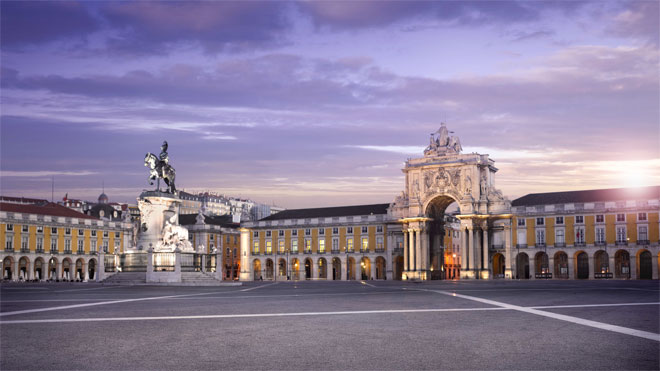
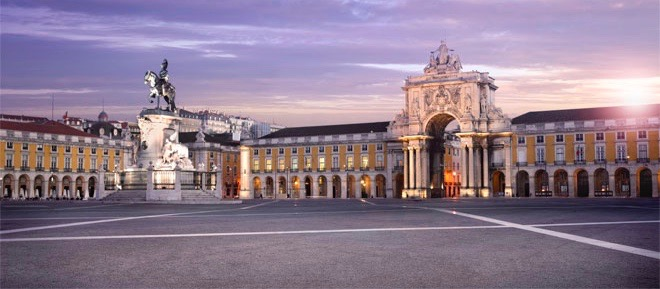
final changes to carousel and form

diff --git a/src/frontend/index.html b/src/frontend/index.html
@@ -72,6 +72,26 @@
 
     });
 
+    $(function () {
+
+        $('#getInTouchForm').on('submit', function (e) {
+
+          e.preventDefault();
+
+          $.ajax({
+            type: 'post',
+            url: '/message',
+            data: $('#getInTouchForm').serialize(),
+            success: function () {
+              alert("I'll get in touch with you soon =)");
+              $('#getInTouchForm')[0].reset();
+            }
+          });
+
+        });
+
+      });
+
   </script>
 
 </head>
@@ -81,54 +101,7 @@
       <p>Software Developer</p>
     </div>
 
-    <div id="myCarousel" class="carousel slide" data-ride="carousel">
-      <!-- Indicators -->
-      <ol class="carousel-indicators">
-        <li data-target="#myCarousel" data-slide-to="0" class="active"></li>
-        <li data-target="#myCarousel" data-slide-to="1"></li>
-        <li data-target="#myCarousel" data-slide-to="2"></li>
-      </ol>
-
-      <!-- wrapper for slides -->
-      <div class="carousel-inner" role="listbox">
-        <div class="item active carousel">
-          <img class="carouselImg" src="lisboa.jpg" alt="Lisboa" height="300">
-          <div class="carousel-caption">
-            <h3>Lisboa</h3>
-            <p>123</p>
-          </div>
-        </div>
-        <div class="item carouselImg">
-          <img class="carouselImg" src="porto.png" alt="Porto" height="300">
-          <div class="carousel-caption">
-            <h3>Porto</h3>
-            <p>456</p>
-          </div>
-        </div>
-        <div class="item carouselImg">
-          <img class="carouselImg" src="leiria.jpg" alt="Leiria" height="300">
-          <div class="carousel-caption">
-            <h3>Leiria</h3>
-            <p>789</p>
-          </div>
-        </div>
-      </div>
-
-        <!-- Left and right controls -->
-      <a class="left carousel-control" href="#myCarousel" role="button" data-slide="prev">
-        <span class="glyphicon glyphicon-chevron-left" aria-hidden="true"></span>
-        <span class="sr-only">Previous</span>
-      </a>
-      <a class="right carousel-control" href="#myCarousel" role="button" data-slide="next">
-        <span class="glyphicon glyphicon-chevron-right" aria-hidden="true"></span>
-        <span class="sr-only">Next</span>
-      </a>
-    </div>
-
     <div class="container">
-
-
-
 
       <br/><br/>
 
@@ -163,34 +136,84 @@
       <!-- Experience table -->
       <table id="experienceTable" class="table table-striped"></table>
 
-      <br/><br/>
+      <h3>Where I've been</h3>
+      <br/>
 
+      <div id="myCarousel" class="carousel slide" data-ride="carousel" data-interval="3000">
+        <!-- Indicators -->
+        <ol class="carousel-indicators">
+          <li data-target="#myCarousel" data-slide-to="0" class="active"></li>
+          <li data-target="#myCarousel" data-slide-to="1"></li>
+          <li data-target="#myCarousel" data-slide-to="2"></li>
+        </ol>
+
+        <!-- wrapper for slides -->
+        <div class="carousel-inner" role="listbox">
+          <div class="item active carousel">
+            <img class="carouselImg" src="dublin.jpg" alt="Dublin">
+            <div class="carousel-caption">
+              <h3>Dublin</h3>
+              <p>2015-2016</p>
+            </div>
+          </div>
+          <div class="item carouselImg">
+            <img class="carouselImg" src="lisboa.jpg" alt="Lisbon">
+            <div class="carousel-caption">
+              <h3>Lisbon</h3>
+              <p>2006-2015 and 2016-present</p>
+            </div>
+          </div>
+          <div class="item carouselImg">
+            <img class="carouselImg" src="marinha-grande.jpg" alt="Marinha Grande">
+            <div class="carousel-caption">
+              <h3>Marinha Grande</h3>
+              <p>1988-2006</p>
+            </div>
+          </div>
+        </div>
+
+          <!-- Left and right controls -->
+        <a class="left carousel-control" href="#myCarousel" role="button" data-slide="prev">
+          <span class="glyphicon glyphicon-chevron-left" aria-hidden="true"></span>
+          <span class="sr-only">Previous</span>
+        </a>
+        <a class="right carousel-control" href="#myCarousel" role="button" data-slide="next">
+          <span class="glyphicon glyphicon-chevron-right" aria-hidden="true"></span>
+          <span class="sr-only">Next</span>
+        </a>
+      </div>
+
+      <br/>
       <!-- Get in touch -->
       <h3>Get in touch</h3>
-      <div>
-        <div class="form-group">
-          <form action="/show" method="post">
-            <div class="row">
-              <div class="col-xs6">
-                <label>Name</label>
-                <input type="text" name="name" class="form-control" placeholder="First and last name"/>
-              </div>
-              <div class="col-xs6">
-                <label>Email</label>
-                <input type="email" name="email" class="form-control" placeholder="name@emailservice.region"/>
-              </div>
+      <div class="form-group">
+        <form id="getInTouchForm">
+          <div class="row">
+            <div class="col-xs-6">
+              <label>Name</label>
+              <input type="text" name="name" class="form-control" placeholder="First and last name"/>
             </div>
-            <div class="row">
+            <div class="col-xs-6">
+              <label>Email</label>
+              <input type="email" name="email" class="form-control" placeholder="name@emailservice.region"/>
+            </div>
+          </div>
+          <br/>
+          <div class="row">
+            <div class="col-xs-12">
               <label>Message</label>
               <textarea class="form-control" rows="3" name="message" placeholder="Enter your message here"></textarea>
             </div>
-            <div class="row">
+          </div>
+          <div class="row">
+            <div class="col-xs-12">
               <br/>
               <input type="submit" class="btn btn-primary" value="Send" name="button"/>
             </div>
-          </form>
-        </div>
+          </div>
+        </form>
       </div>
+
 
       <hr class="featurette-divider">
       <footer>

diff --git a/src/backend/requestHandlers.js b/src/backend/requestHandlers.js
@@ -23,11 +23,13 @@ function start(request, response, postData) {
 
 }
 /* POST data in forms */
-function show(request, response, postData){
-  console.log("postData");
-  console.dir(postData);
-  var message = "The entered field was " + querystring.parse(postData).field1;
-  answer(response, message);
+function message(request, response, postData){
+  console.log("New message");
+  console.log("Name: " + querystring.parse(postData).name);
+  console.log("Email: " + querystring.parse(postData).email);
+  console.log("Message: " + querystring.parse(postData).message);
+
+  start(request, response, postData);
 }
 
 function getImage(request, response, name) {
@@ -36,7 +38,6 @@ function getImage(request, response, name) {
   fs.readFile("src/frontend/images/" + pathname, function (err, fd) {
     if (err) {
       console.log(err);
-      throw err;
     } else {
       response.writeHead(200, {"Content-Type": "image/jpeg"});
       response.write(fd);
@@ -92,6 +93,7 @@ function getExperience(request, response, postData, hostname){
 };
 
 exports.start = start;
+exports.message = message;
 exports.getImage = getImage;
 exports.getCSS = getCSS;
 exports.getExperience = getExperience;

diff --git a/src/backend/index.js b/src/backend/index.js
@@ -5,7 +5,7 @@ var hostname = "localhost";
 
 var handle = {};
 handle["/"] = requestHandlers.start;
-handle["/show"] = requestHandlers.show;
+handle["/message"] = requestHandlers.message;
 handle["/getImage"] = requestHandlers.getImage;
 handle["/getCSS"] = requestHandlers.getCSS;
 handle["/experience"] = requestHandlers.getExperience;

diff --git a/src/backend/server.js b/src/backend/server.js
@@ -10,7 +10,7 @@ function start(port, hostname, handle) {
 
     request.on("data", function (postDataChunk) {
       postData += postDataChunk;
-      console.log("Received postDataChunk: ", postDataChunk);
+      //console.log("Received postDataChunk: ", postDataChunk);
     });
 
     request.on("end", function() {

diff --git a/src/frontend/main.css b/src/frontend/main.css
@@ -3,9 +3,7 @@
 }
 
 .carouselImg{
-  width: auto;
-  height:300px;
-  max-height: 300px;
   display: block;
-  margin-left: auto;
+  min-width: 100%;
+  max-height: 500px;
 }
